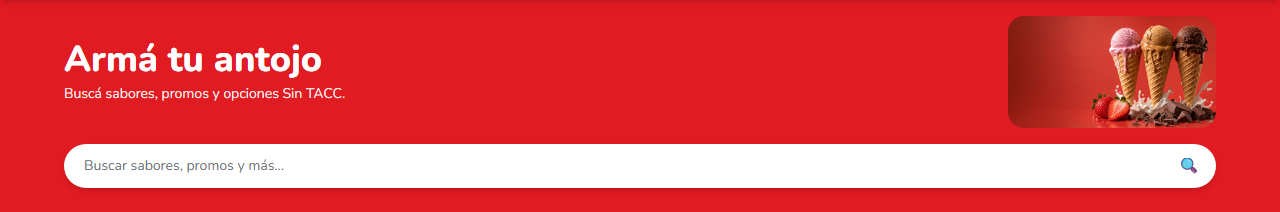
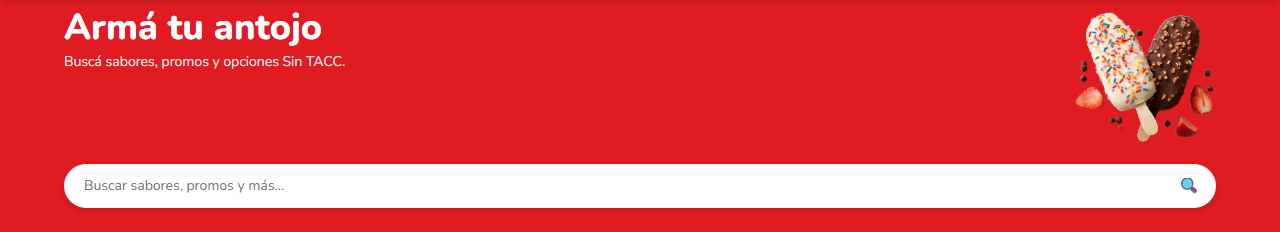
feat: hero with transparent stick-ice-cream art top-right, matching the reference mockup (mobile + desktop)

diff --git a/src/components/Hero.tsx b/src/components/Hero.tsx
@@ -9,7 +9,7 @@ export function Hero({ query, onQuery }: Props) {
   return (
     <section className="bg-brand-red px-4 pb-6 pt-2 text-white">
       <div className="mx-auto max-w-6xl">
-        <div className="flex items-center justify-between gap-4 py-2">
+        <div className="flex items-start justify-between gap-3">
           <div>
             <h1 className="text-2xl font-black leading-tight md:text-4xl">Armá tu antojo</h1>
             <p className="mt-1 max-w-md text-sm opacity-90">
@@ -20,10 +20,10 @@ export function Hero({ query, onQuery }: Props) {
             src="/hero.png"
             alt=""
             aria-hidden
-            className="hidden h-28 w-52 rounded-card object-cover object-right md:block"
+            className="h-24 w-24 shrink-0 object-contain md:h-36 md:w-36"
           />
         </div>
-        <div className="mt-2">
+        <div className="mt-3">
           <SearchBar value={query} onChange={onQuery} />
         </div>
       </div>
